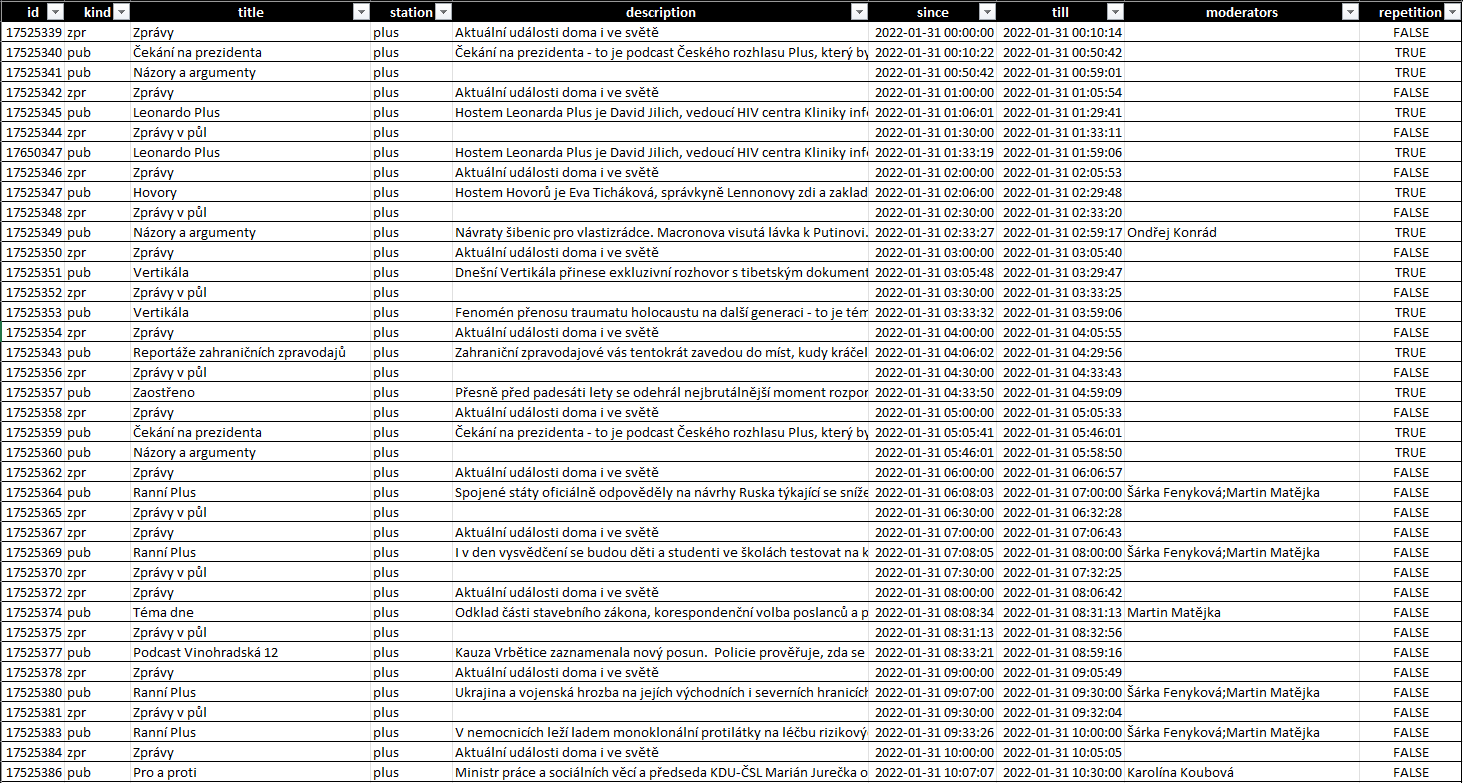
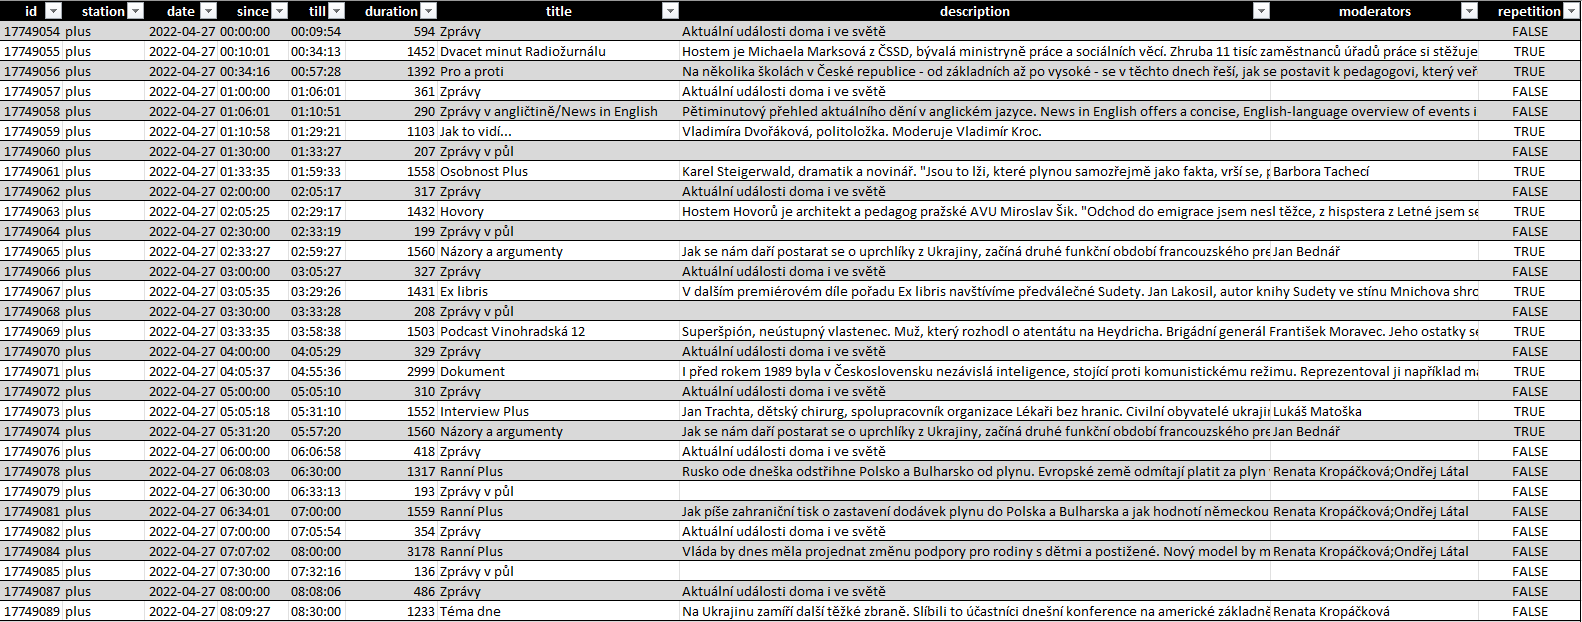
Split since and till to date and times and export duration

diff --git a/src/cro/schedule/sdk/__domain/__init__.py b/src/cro/schedule/sdk/__domain/__init__.py
@@ -71,33 +71,35 @@ class Show:
     title: Title
     station: Station
     description: str
-    since: dt.datetime
-    till: dt.datetime
+    date: dt.date
+    since: dt.time
+    till: dt.time
     moderators: tuple[Person] = field(hash=False)
     repetition: bool
 
     @cached_property
     def type(self) -> str:
-        if self.since.time() >= dt.time(6, 0, 0) and self.since.time() < dt.time(
-            10, 0, 0
-        ):
+        if self.since >= dt.time(6, 0, 0) and self.since < dt.time(10, 0, 0):
             return "MORNING"
-        elif self.since.time() >= dt.time(10, 0, 0) and self.since.time() < dt.time(
-            12, 0, 0
-        ):
+        elif self.since >= dt.time(10, 0, 0) and self.since < dt.time(12, 0, 0):
             return "NOON"
         else:
             return "UNKNOWN"
 
     @cached_property
-    def duration(self) -> dt.time:
-        return (dt.datetime.min + (self.till - self.since)).time()
+    def duration(self) -> float:
+        # TODO Write unit tests! Return dt.time?
+        return dt.timedelta(
+            hours=self.till.hour - self.since.hour,
+            minutes=self.till.minute - self.since.minute,
+            seconds=self.till.second - self.since.second,
+        ).total_seconds()
 
     def __lt__(self, that) -> bool:
         """
         Compare the shows by the *since* time so we can sort them.
         """
-        return self.since.time() < that.since.time()
+        return self.since < that.since
 
 
 # << Show model
@@ -170,8 +172,7 @@ class Schedule:
 
         return tuple(
             filter(
-                lambda show: (show.since.time() >= since)
-                and (show.till.time() <= till),
+                lambda show: (show.since >= since) and (show.till <= till),
                 self.shows,
             )
         )
@@ -190,13 +191,6 @@ class Schedule:
                 self.shows,
             )
         )
-
-    def to_excel(self, schedule: Schedule, path: pl.Path) -> object:
-        """
-        Return the given schedule as Excel workbook.
-        """
-        assert schedule, path is not None
-        return NotImplemented
 
     def to_chart(self, shedule: Schedule) -> dict:
         """
@@ -219,15 +213,32 @@ class Schedule:
         df.moderators = df.moderators.apply(
             lambda xs: ";".join([x["name"] for x in xs])
         )
-        # Replace empty moderators by None/NaN?
-        # df.moderators = df.moderators.apply(lambda xs: None if len(xs) == 0 else xs)
 
         # Remove timezones for Excel exports.
         if without_timezone:
             df["till"] = df["till"].apply(lambda x: x.replace(tzinfo=None))
             df["since"] = df["since"].apply(lambda x: x.replace(tzinfo=None))
 
-        return df
+        since = df.since.apply(lambda x: dt.datetime.combine(self.shows[0].date, x))
+        till = df.till.apply(lambda x: dt.datetime.combine(self.shows[0].date, x))
+
+        df["duration"] = till - since
+        df.duration = df.duration.apply(lambda x: x.total_seconds())
+
+        return df[
+            [
+                "id",
+                "station",
+                "date",
+                "since",
+                "till",
+                "duration",
+                "title",
+                "description",
+                "moderators",
+                "repetition",
+            ]
+        ]
 
     @classmethod
     def from_table(cls, table: pd.DataFrame, columns: dict = None) -> Schedule:

diff --git a/tests/test_domain.py b/tests/test_domain.py
@@ -59,8 +59,9 @@ def lhs_fake_show():
             services=(),
         ),
         description="d1",
-        since=dt.datetime(2022, 12, 1, 6, 0, 0),
-        till=dt.datetime(2022, 12, 1, 7, 0, 0),
+        date=dt.datetime(2022, 12, 1, 6, 0, 0).date(),
+        since=dt.datetime(2022, 12, 1, 6, 0, 0).time(),
+        till=dt.datetime(2022, 12, 1, 7, 0, 0).time(),
         repetition=False,
         moderators=tuple([]),
     )
@@ -81,8 +82,9 @@ def rhs_fake_show():
             services=(),
         ),
         description="d2",
-        since=dt.datetime(2022, 12, 1, 7, 0, 0),
-        till=dt.datetime(2022, 12, 1, 8, 0, 0),
+        date=dt.datetime(2022, 12, 1, 7, 0, 0).date(),
+        since=dt.datetime(2022, 12, 1, 7, 0, 0).time(),
+        till=dt.datetime(2022, 12, 1, 8, 0, 0).time(),
         repetition=False,
         moderators=tuple([]),
     )

diff --git a/src/cro/schedule/sdk/__client/__init__.py b/src/cro/schedule/sdk/__client/__init__.py
@@ -222,8 +222,9 @@ class Client:
                         name=item["type"]["name"],
                     ),
                     description=item["description"],
-                    since=since,
-                    till=till,
+                    date=since.date(),
+                    since=since.time(),
+                    till=till.time(),
                     moderators=tuple(
                         (Person(p["id"], p["name"]) for p in item["persons"])
                     ),
